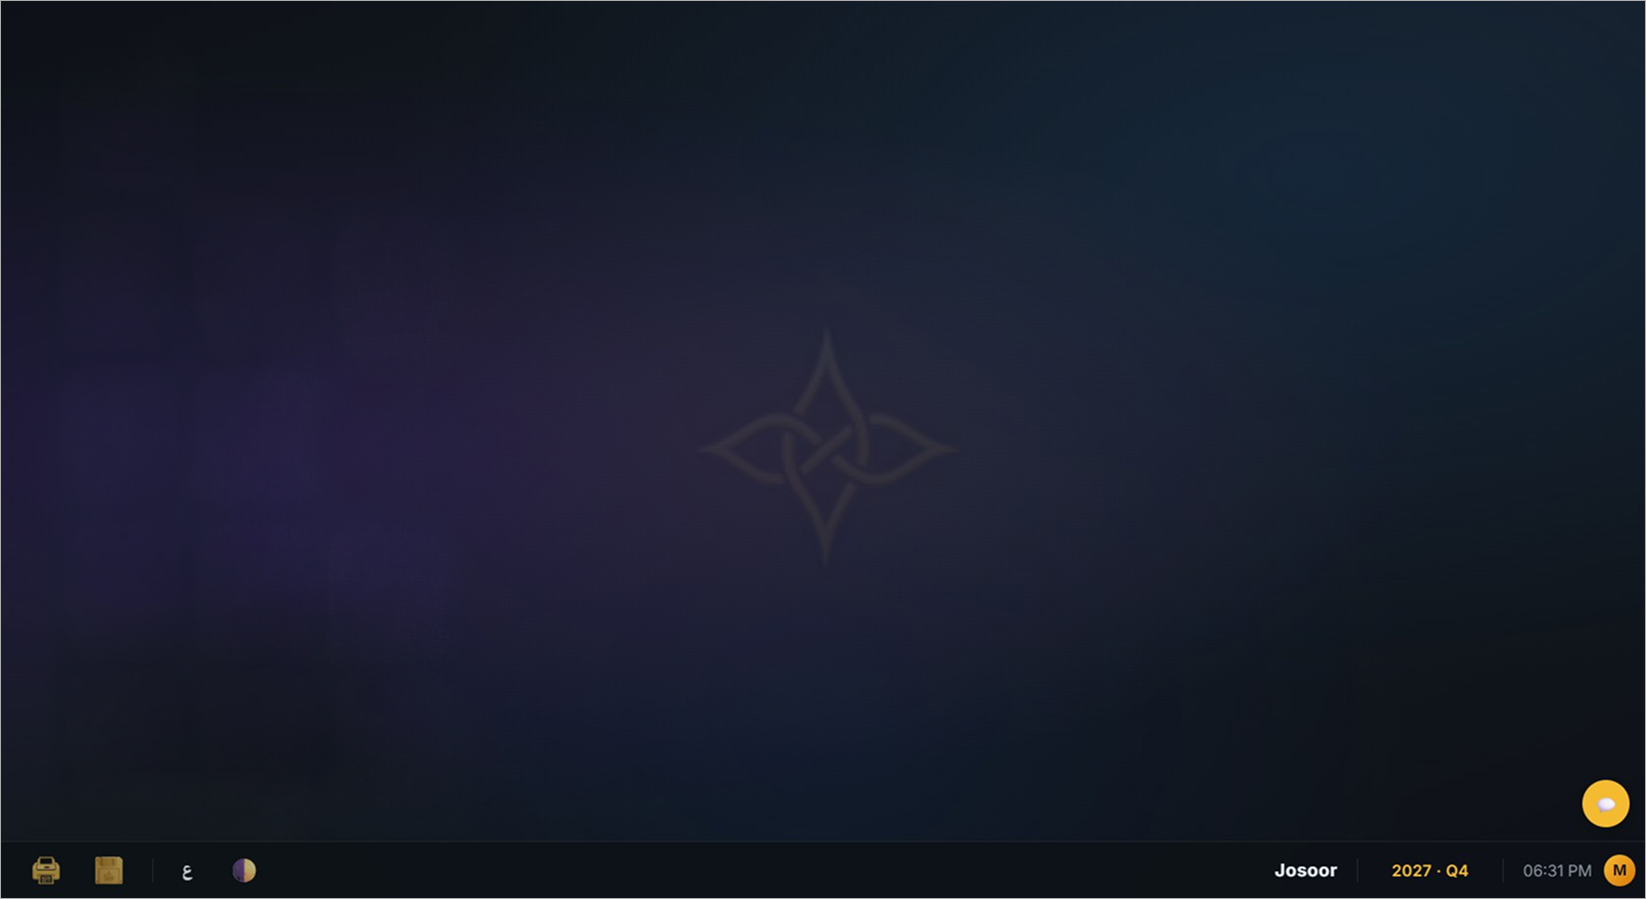
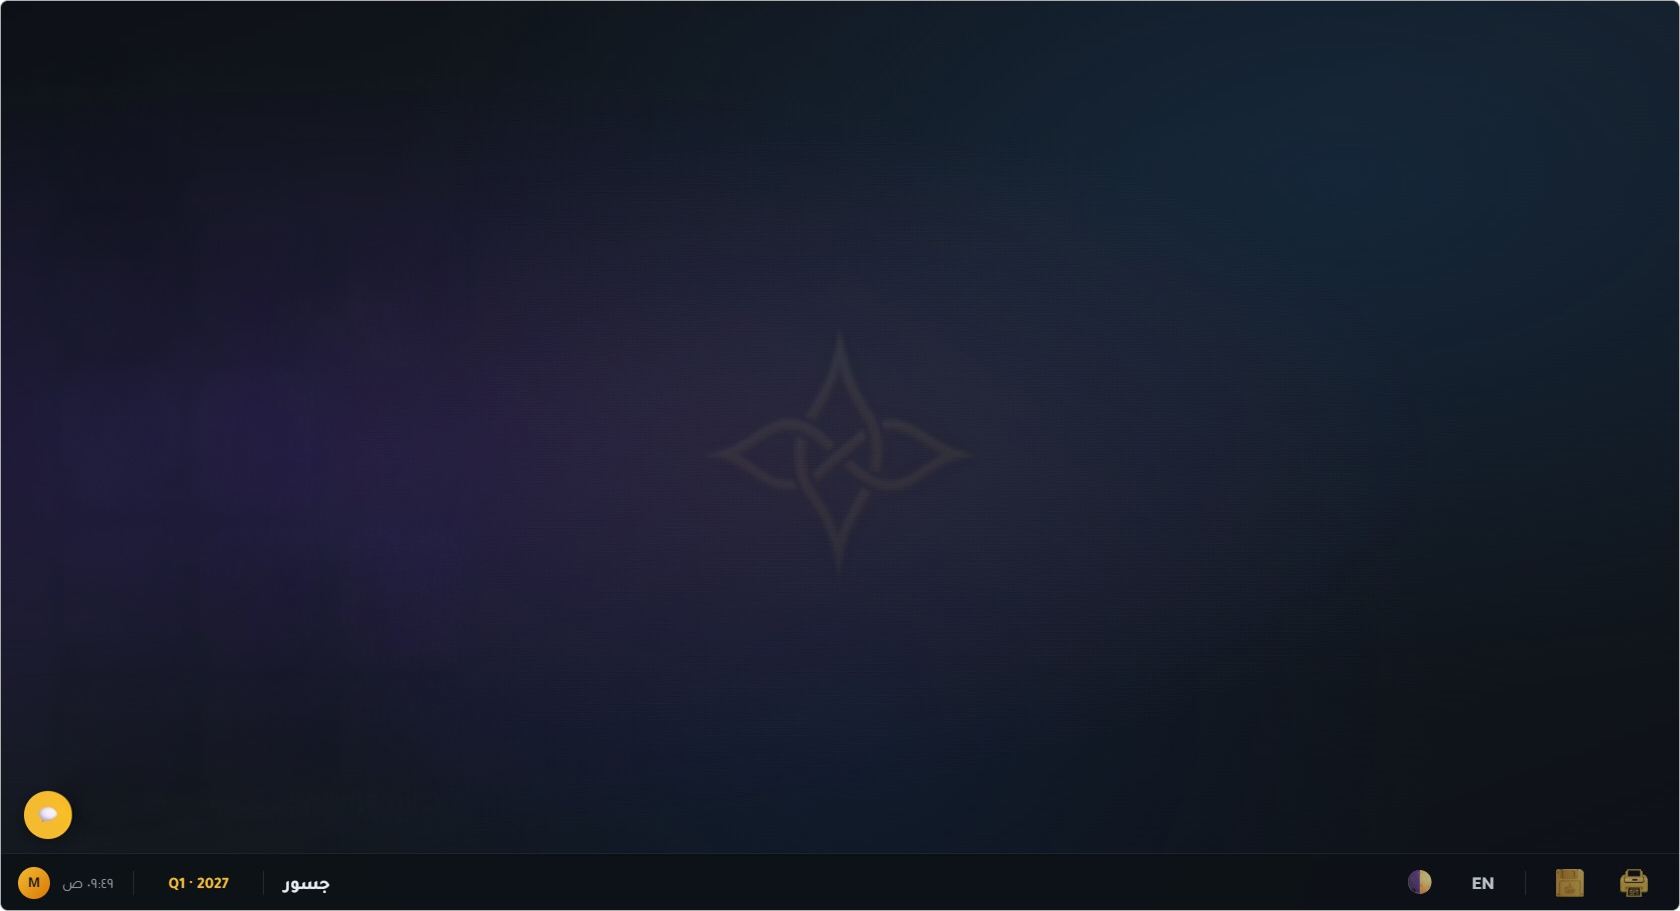
feat: apply copy translations, refine Trust Block layout, and apply pending fixes

diff --git a/frontend/src/components/desks/PlanningDesk.tsx b/frontend/src/components/desks/PlanningDesk.tsx
@@ -6,7 +6,7 @@ import { Gantt } from 'wx-react-gantt';
 import 'wx-react-gantt/dist/gantt.css';
 import { chatService } from '../../services/chatService';
 import { createRiskPlan, fetchAllRiskPlans, fetchRiskPlan, RiskPlanSummary } from '../../services/planningService';
-import { parsePlanResponse, InterventionPlan, PlanDeliverable, PlanTask } from '../../utils/planParser';
+import { parsePlanResponse, InterventionPlan, PlanDeliverable, PlanTask, RiskAnalysisSnapshot } from '../../utils/planParser';
 import './PlanningDesk.css';
 
 type PlanningMode = 'intervention' | 'strategic-reset' | 'scenario';
@@ -270,7 +270,31 @@ function InterventionPlanning({ context, onClearContext }: InterventionPlanningP
     if (!plan || !context) return;
 
     try {
-      await createRiskPlan(context.riskId, plan);
+      const snapshot: RiskAnalysisSnapshot = {
+        risk_id: context.riskId,
+        risk_name: context.riskName,
+        risk_category: context.riskCategory,
+        capability_id: context.capabilityId,
+        capability_name: context.capabilityName,
+        band: context.band,
+        mode: context.mode,
+        selected_strategy: context.selectedOption.title,
+        strategy_description: context.selectedOption.description,
+        narrative_html: context.riskAnalysisNarrative,
+        people_score: context.peopleScore,
+        process_score: context.processScore,
+        tools_score: context.toolsScore,
+        maturity_level: context.maturityLevel,
+        target_maturity_level: context.targetMaturityLevel,
+        kpi_achievement_pct: context.kpiAchievementPct,
+        build_exposure_pct: context.buildExposurePct,
+        dependency_count: context.dependencyCount,
+        build_status: context.buildStatus,
+        execute_status: context.executeStatus,
+        snapshot_date: new Date().toISOString(),
+      };
+
+      await createRiskPlan(context.riskId, plan, snapshot);
       setIsCommitted(true);
     } catch (err: any) {
       console.error('[InterventionPlanning] Commit failed:', err);
@@ -497,6 +521,51 @@ function SavedPlansList() {
         <div style={{ fontSize: '12px', color: 'var(--component-text-muted)', marginBottom: '16px' }}>
           {plan.deliverables.length} {t('josoor.planning.deliverables') || 'deliverables'} · {plan.deliverables.reduce((sum, d) => sum + d.tasks.length, 0)} {t('josoor.planning.tasks') || 'tasks'}
         </div>
+
+        {plan.risk_analysis && (
+          <div className="risk-context-header" style={{ marginBottom: '16px', borderColor: 'var(--component-text-muted)' }}>
+            <div style={{ fontSize: '11px', color: 'var(--component-text-muted)', textTransform: 'uppercase', fontWeight: 600, marginBottom: '6px' }}>
+              {t('josoor.planning.riskAnalysisSnapshot') || 'Risk Analysis Snapshot'}
+              {plan.risk_analysis.snapshot_date && (
+                <span style={{ fontWeight: 400, textTransform: 'none', marginInlineStart: '8px' }}>
+                  {new Date(plan.risk_analysis.snapshot_date).toLocaleDateString()}
+                </span>
+              )}
+            </div>
+            <div style={{ display: 'flex', alignItems: 'center', gap: '0', flexWrap: 'wrap', fontSize: '13px' }}>
+              <span><span className="field-label" style={{ marginInlineEnd: '4px' }}>{t('josoor.planning.risk')}</span><span className="field-value">{plan.risk_analysis.risk_id} — {plan.risk_analysis.risk_name}</span></span>
+              <span style={{ opacity: 0.3, margin: '0 8px' }}>|</span>
+              <span><span className="field-label" style={{ marginInlineEnd: '4px' }}>{t('josoor.planning.capability')}</span><span className="field-value">{plan.risk_analysis.capability_id} — {plan.risk_analysis.capability_name}</span></span>
+              <span style={{ opacity: 0.3, margin: '0 8px' }}>|</span>
+              <span style={{ fontWeight: 600 }}>{plan.risk_analysis.band}</span>
+              <span style={{ opacity: 0.3, margin: '0 8px' }}>|</span>
+              <span><span className="field-label" style={{ marginInlineEnd: '4px' }}>{plan.risk_analysis.mode === 'execute' ? 'Status' : 'Build'}</span><span className="field-value">{plan.risk_analysis.mode === 'execute' ? (plan.risk_analysis.execute_status || '—') : (plan.risk_analysis.build_status || '—')}</span></span>
+              {plan.risk_analysis.people_score != null && (<>
+                <span style={{ opacity: 0.3, margin: '0 8px' }}>|</span>
+                <span><span className="field-label" style={{ marginInlineEnd: '4px' }}>P/Pr/T</span><span className="field-value">{plan.risk_analysis.people_score}/{plan.risk_analysis.process_score}/{plan.risk_analysis.tools_score}</span></span>
+              </>)}
+            </div>
+            <div style={{ marginTop: '6px', fontSize: '13px' }}>
+              <span className="field-label" style={{ marginInlineEnd: '4px' }}>{t('josoor.planning.selectedStrategy')}</span>
+              <span className="strategy-value">{plan.risk_analysis.selected_strategy}</span>
+              {plan.risk_analysis.strategy_description && (
+                <span style={{ marginInlineStart: '6px', opacity: 0.7 }}>{plan.risk_analysis.strategy_description}</span>
+              )}
+            </div>
+            {plan.risk_analysis.narrative_html && (
+              <details style={{ marginTop: '8px' }}>
+                <summary style={{ cursor: 'pointer', fontSize: '12px', color: 'var(--component-text-accent)' }}>
+                  {t('josoor.planning.viewFullAnalysis') || 'View full risk analysis'}
+                </summary>
+                <div
+                  className="narrative-content"
+                  style={{ marginTop: '8px', fontSize: '12px', opacity: 0.85 }}
+                  dangerouslySetInnerHTML={{ __html: plan.risk_analysis.narrative_html }}
+                />
+              </details>
+            )}
+          </div>
+        )}
 
         {ganttTasks.length > 0 && (
           <div className="gantt-container">

diff --git a/frontend/src/components/landing/DesktopExperience.tsx b/frontend/src/components/landing/DesktopExperience.tsx
@@ -229,6 +229,7 @@ const ALL_IMAGES = [
   `${BASE}/biosboot.jpg`,
   `${BASE}/josoor_art.png`,
   `${BASE}/desktop.jpg`,
+  `${AR_BASE}/desktop.jpg`,
   ...ICONS.map(i => i.icon),
   ...ICONS.flatMap(i => i.pages),
 ];
@@ -659,7 +660,8 @@ export default function DesktopExperience({ language = 'ar' }: DesktopExperience
                     inset: 0,
                     width: '100%',
                     height: '100%',
-                    objectFit: 'contain',
+                    objectFit: 'cover',
+                    objectPosition: 'left bottom',
                     opacity: idx === pageIndex ? 1 : 0,
                     transition: 'opacity 0.4s ease',
                     display: 'block',
@@ -895,9 +897,9 @@ export default function DesktopExperience({ language = 'ar' }: DesktopExperience
           transition: 'opacity 0.8s ease',
         }}>
           <img
-            src={`${BASE}/desktop.jpg`}
+            src={isRTL ? `${AR_BASE}/desktop.jpg` : `${BASE}/desktop.jpg`}
             alt="Josoor Desktop"
-            style={{ width: '100%', height: '100%', objectFit: 'cover', position: 'absolute', inset: 0 }}
+            style={{ height: '100%', width: '100%', objectFit: 'cover', objectPosition: 'left bottom', position: 'absolute', inset: 0 }}
             draggable={false}
           />
 
@@ -908,7 +910,7 @@ export default function DesktopExperience({ language = 'ar' }: DesktopExperience
             bottom: 0,
             left: isRTL ? 0 : undefined,
             right: isRTL ? undefined : 0,
-            paddingTop: isMobile ? '12%' : '8%',
+            paddingTop: isLandscapeMobile ? '20%' : (isMobile ? '28%' : '15%'),
             paddingLeft: isMobile ? '8%' : '10%',
             paddingRight: isMobile ? '8%' : '10%',
             display: 'flex',

diff --git a/frontend/src/components/landing/SolutionBlocks.tsx b/frontend/src/components/landing/SolutionBlocks.tsx
@@ -21,6 +21,7 @@ interface BlockDef {
   borderAlpha: number;
   footnoteKey?: string;
   evidence?: EvidenceLink[];
+  hasQuote?: boolean;
 }
 
 const BLOCK_DEFS: BlockDef[] = [
@@ -31,7 +32,8 @@ const BLOCK_DEFS: BlockDef[] = [
   },
   {
     id: 'block2',
-    accent: 'quote',
+    accent: 'list',
+    hasQuote: true,
     borderAlpha: 0.2,
   },
   { id: 'block3', accent: 'list',  borderAlpha: 0.15, footnoteKey: 'solution.block3Footnote' },
@@ -323,7 +325,7 @@ function BlockCard({
     ? (t(`${prefix}List`, { returnObjects: true }) as unknown as Array<{ bold: string; text: string }>)
     : null;
 
-  const quoteText = def.accent === 'quote' ? t(`${prefix}Quote`) : '';
+  const quoteText = (def.accent === 'quote' || def.hasQuote) ? t(`${prefix}Quote`) : '';
   const footnote = def.footnoteKey ? t(def.footnoteKey) : '';
 
   return (
@@ -412,8 +414,10 @@ function BlockCard({
           {def.accent === 'list' && listItems && Array.isArray(listItems) && (
             <ListAccent items={listItems} isMobile={isMobile} />
           )}
-          {def.accent === 'quote' && (
-            <QuoteAccent text={quoteText} isMobile={isMobile} />
+          {(def.accent === 'quote' || def.hasQuote) && quoteText && (
+            <div style={{ marginTop: def.accent === 'list' ? '2.5rem' : 0 }}>
+              <QuoteAccent text={quoteText} isMobile={isMobile} />
+            </div>
           )}
         </div>
       </div>

diff --git a/frontend/src/services/planningService.ts b/frontend/src/services/planningService.ts
@@ -1,4 +1,4 @@
-import { InterventionPlan } from '../utils/planParser';
+import { InterventionPlan, RiskAnalysisSnapshot } from '../utils/planParser';
 
 const MCP_ENDPOINT = '/1/mcp/'; // Noor MCP router (port 8201)
 
@@ -18,11 +18,15 @@ export interface RiskPlanSummary {
  * Create RiskPlan L1/L2/L3 nodes in Neo4j, attached to the given risk.
  * POST /api/risk-plan
  */
-export async function createRiskPlan(riskId: string, plan: InterventionPlan): Promise<{ planId?: string }> {
+export async function createRiskPlan(riskId: string, plan: InterventionPlan, riskAnalysis?: RiskAnalysisSnapshot): Promise<{ planId?: string }> {
+  const payload: Record<string, any> = { riskId, plan };
+  if (riskAnalysis) {
+    payload.riskAnalysis = riskAnalysis;
+  }
   const response = await fetch('/api/neo4j/risk-plan', {
     method: 'POST',
     headers: { 'Content-Type': 'application/json' },
-    body: JSON.stringify({ riskId, plan }),
+    body: JSON.stringify(payload),
   });
 
   if (!response.ok) {

diff --git a/frontend/src/utils/planParser.ts b/frontend/src/utils/planParser.ts
@@ -20,12 +20,37 @@ export interface PlanDeliverable {
   tasks: PlanTask[];
 }
 
+export interface RiskAnalysisSnapshot {
+  risk_id: string;
+  risk_name: string;
+  risk_category?: string;
+  capability_id: string;
+  capability_name: string;
+  band: string;
+  mode: string;
+  selected_strategy: string;
+  strategy_description?: string;
+  narrative_html?: string;
+  people_score?: number;
+  process_score?: number;
+  tools_score?: number;
+  maturity_level?: number;
+  target_maturity_level?: number;
+  kpi_achievement_pct?: number;
+  build_exposure_pct?: number;
+  dependency_count?: number;
+  build_status?: string;
+  execute_status?: string;
+  snapshot_date: string;
+}
+
 export interface InterventionPlan {
   name: string;
   sponsor: string;
   narrative?: string;
   risk_id?: string;
   capability_id?: string;
+  risk_analysis?: RiskAnalysisSnapshot;
   deliverables: PlanDeliverable[];
 }
 

diff --git a/frontend/src/components/landing/VisionMemory.tsx b/frontend/src/components/landing/VisionMemory.tsx
@@ -151,7 +151,7 @@ export default function VisionMemory() {
                       color: 'var(--component-text-secondary, #D1D5DB)',
                       lineHeight: 1.6,
                     }}>
-                      <strong style={{ color: 'var(--component-text-primary, #F9FAFB)', fontWeight: 600 }}>
+                      <strong style={{ color: '#F4BB30', fontWeight: 600 }}>
                         {item.bold}
                       </strong>{' '}
                       {item.text}

diff --git a/frontend/src/components/landing/Hero.tsx b/frontend/src/components/landing/Hero.tsx
@@ -51,9 +51,9 @@ export default function Hero({ content, language }: HeroProps) {
                 backgroundClip: 'text',
               }}>
                 {content.title}
-              </span>{' '}
+              </span>
               <span style={{ color: 'var(--text-primary, #f8f8f8)' }}>
-                {content.subtitle}
+                {' '}{content.subtitle}
               </span>
             </h1>
             <p className="hero-sectors">

diff --git a/frontend/src/components/landing/Hero.css b/frontend/src/components/landing/Hero.css
@@ -21,8 +21,10 @@
   height: 50vh;
   min-height: 380px;
   max-width: 100%;
-  margin: 0 auto;
+  margin: 5px auto 0;
   border-radius: 12px;
+  border: 1px solid rgba(255, 255, 255, 0.15);
+    box-shadow: 0 4px 30px rgba(0, 0, 0, 0.5);
   overflow: hidden;
   display: block;
 }

diff --git a/docs/backend-spec-risk-plan-endpoint.md b/docs/backend-spec-risk-plan-endpoint.md
@@ -41,6 +41,29 @@ Create a new RiskPlan with deliverables and tasks.
         ]
       }
     ]
+  },
+  "riskAnalysis": {
+    "risk_id": "RISK_water_supply_disruption",
+    "risk_name": "Water Supply Disruption",
+    "risk_category": "Operational",
+    "capability_id": "CAP_plant_operations",
+    "capability_name": "Plant Operations",
+    "band": "issues",
+    "mode": "execute",
+    "selected_strategy": "Implement redundant supply lines",
+    "strategy_description": "Add backup water sources to reduce single-point failure risk",
+    "narrative_html": "<p>Risk analysis narrative from the AI advisor...</p>",
+    "people_score": 2.5,
+    "process_score": 3.0,
+    "tools_score": 1.5,
+    "maturity_level": 2,
+    "target_maturity_level": 4,
+    "kpi_achievement_pct": 45,
+    "build_exposure_pct": null,
+    "dependency_count": 8,
+    "build_status": null,
+    "execute_status": "red",
+    "snapshot_date": "2026-03-13T10:30:00.000Z"
   }
 }
 ```
@@ -61,6 +84,21 @@ Fetch existing plan for a risk. Returns 404 if none exists.
   "plan": {
     "name": "...",
     "sponsor": "...",
+    "risk_analysis": {
+      "risk_id": "...",
+      "risk_name": "...",
+      "capability_id": "...",
+      "capability_name": "...",
+      "band": "...",
+      "mode": "...",
+      "selected_strategy": "...",
+      "strategy_description": "...",
+      "narrative_html": "...",
+      "people_score": 2.5,
+      "process_score": 3.0,
+      "tools_score": 1.5,
+      "snapshot_date": "2026-03-13T10:30:00.000Z"
+    },
     "deliverables": [...]
   }
 }
@@ -82,14 +120,15 @@ Fetch existing plan for a risk. Returns 404 if none exists.
 ### Cypher — Create
 
 ```cypher
-// 1. Match the risk, create L1
+// 1. Match the risk, create L1 with immutable risk analysis snapshot
 MATCH (r {id: $riskId})
 CREATE (p:RiskPlan:L1 {
   id: 'RP_' + $riskId + '_' + toString(datetime()),
   name: $planName,
   sponsor: $planSponsor,
   status: 'Draft',
-  created_at: datetime()
+  created_at: datetime(),
+  risk_analysis_json: $riskAnalysisJson
 })
 CREATE (r)-[:HAS_PLAN]->(p)
 WITH p
@@ -133,7 +172,19 @@ OPTIONAL MATCH (dep:RiskPlan:L3)-[:BLOCKS]->(t)
 RETURN p, collect(DISTINCT d) AS deliverables, collect(DISTINCT {task: t, dep: dep.id}) AS tasks
 ```
 
+## Risk Analysis Snapshot — Integrity Rules
+
+The `riskAnalysis` object is an **immutable audit trail**. It captures the exact state of the risk and capability data at the moment the plan was committed.
+
+1. **Store as-is**: Backend must store the entire `riskAnalysis` JSON as a single `risk_analysis_json` TEXT property on the L1 node. Do NOT decompose into separate properties.
+2. **Never modify**: Once written, `risk_analysis_json` must NEVER be updated, even if the underlying risk/capability data changes later. This is a point-in-time snapshot.
+3. **Return on read**: When returning a plan via GET, parse `risk_analysis_json` back into the `risk_analysis` field inside the `plan` object.
+4. **Optional field**: `riskAnalysis` may be absent in older plans created before this feature. Backend must handle `null`/missing gracefully.
+5. **`$riskAnalysisJson` parameter**: Backend should `JSON.stringify(riskAnalysis)` before passing to Cypher. On read, `JSON.parse(p.risk_analysis_json)`.
+
 ## Frontend
-- `planningService.ts` already calls `POST /api/neo4j/risk-plan` and `GET /api/neo4j/risk-plan/:riskId`
+- `planningService.ts` calls `POST /api/neo4j/risk-plan` and `GET /api/neo4j/risk-plan/:riskId`
+- On commit, frontend builds a `RiskAnalysisSnapshot` from the current `InterventionContext` and sends it alongside the plan
 - On success, plan stays visible with a green "Plan committed" banner
+- Saved plan detail view shows the risk analysis snapshot header with expandable full narrative
 - On failure, error is shown to the user
